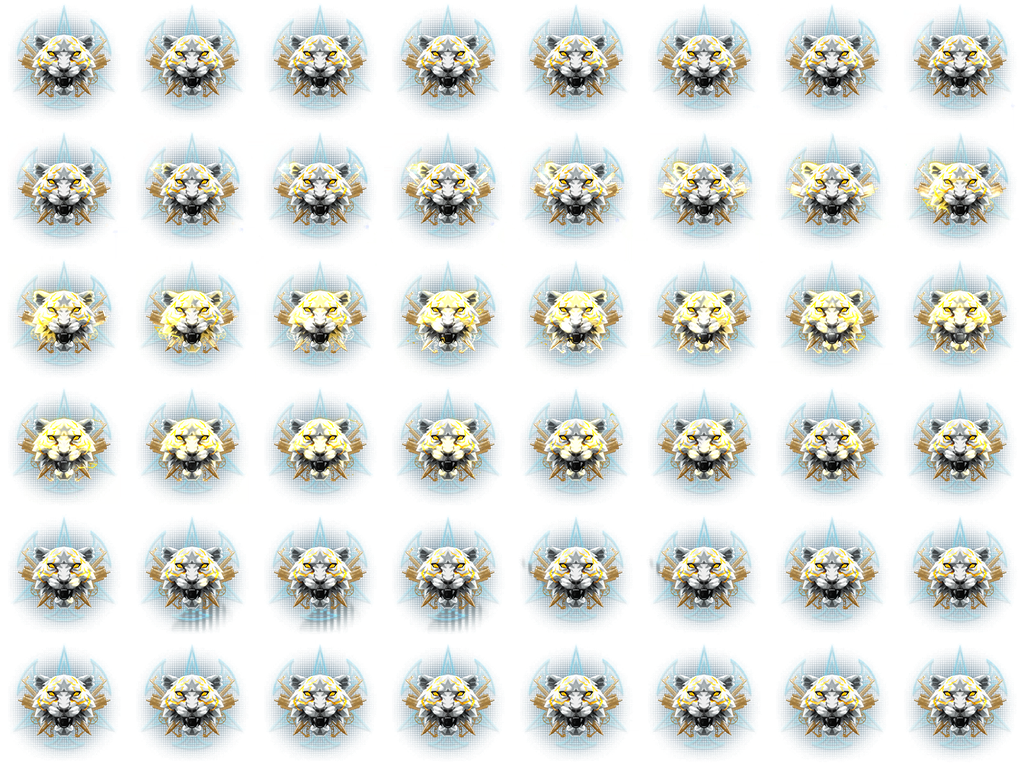
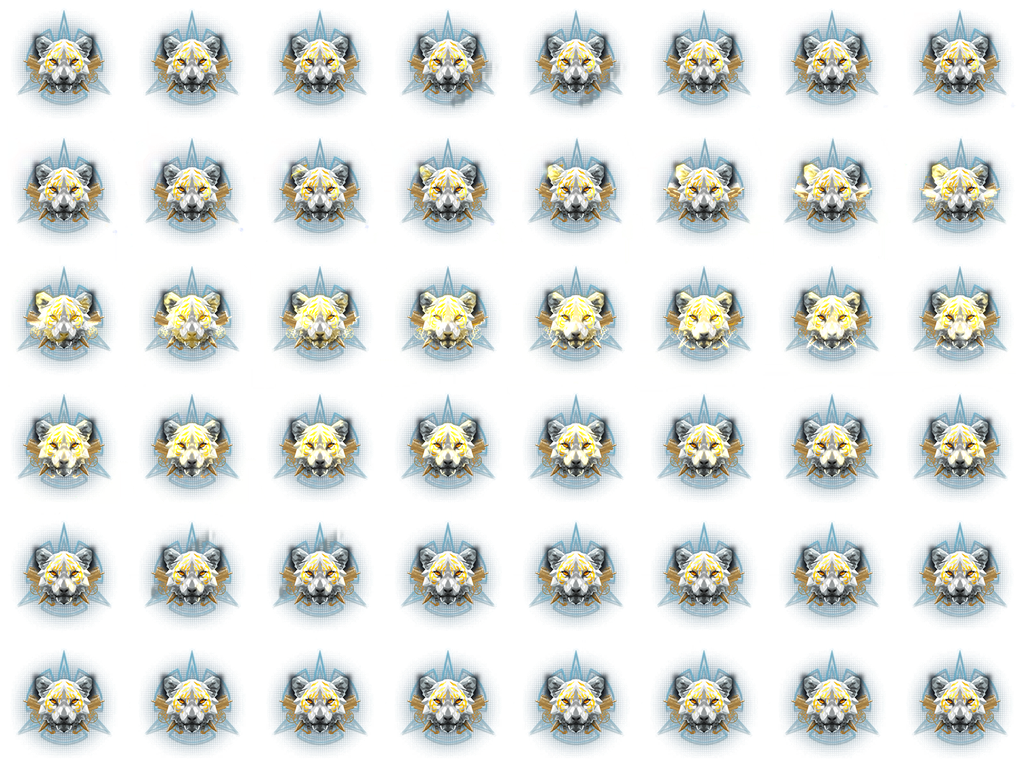
LevelGate Progression 0.9.1: updated emblem set, all 16 ranks animated
Claude-Session: https://claude.ai/code/session_01Wq8dZdjRPGsLsPogxnaXPz

diff --git a/LevelGate/CHANGELOG.md b/LevelGate/CHANGELOG.md
@@ -41,7 +41,9 @@ Versions are **MAJOR.MINOR.PATCH**:
 ## LevelGate Progression (BepInEx plugin, separate DLL)
 
 ### 0.9.1
-- **Ringleader emblem (levels 56–60):** added. It's made from three still pictures (calm, snarl, roar) that cross-fade in a loop, so it moves like the others.
+- **Emblems:** replaced with your updated set.
+  - A new animated emblem for 46–50 (Blacklisted).
+  - The former 46–50 and 51–55 emblems moved up to 51–55 and 56–60, so all 16 ranks have their own animated emblem.
 - **Versioning:** smaller steps from here on (0.9.x patches); 1.0.0 is kept for the finished screen.
 
 ### 0.9.0
